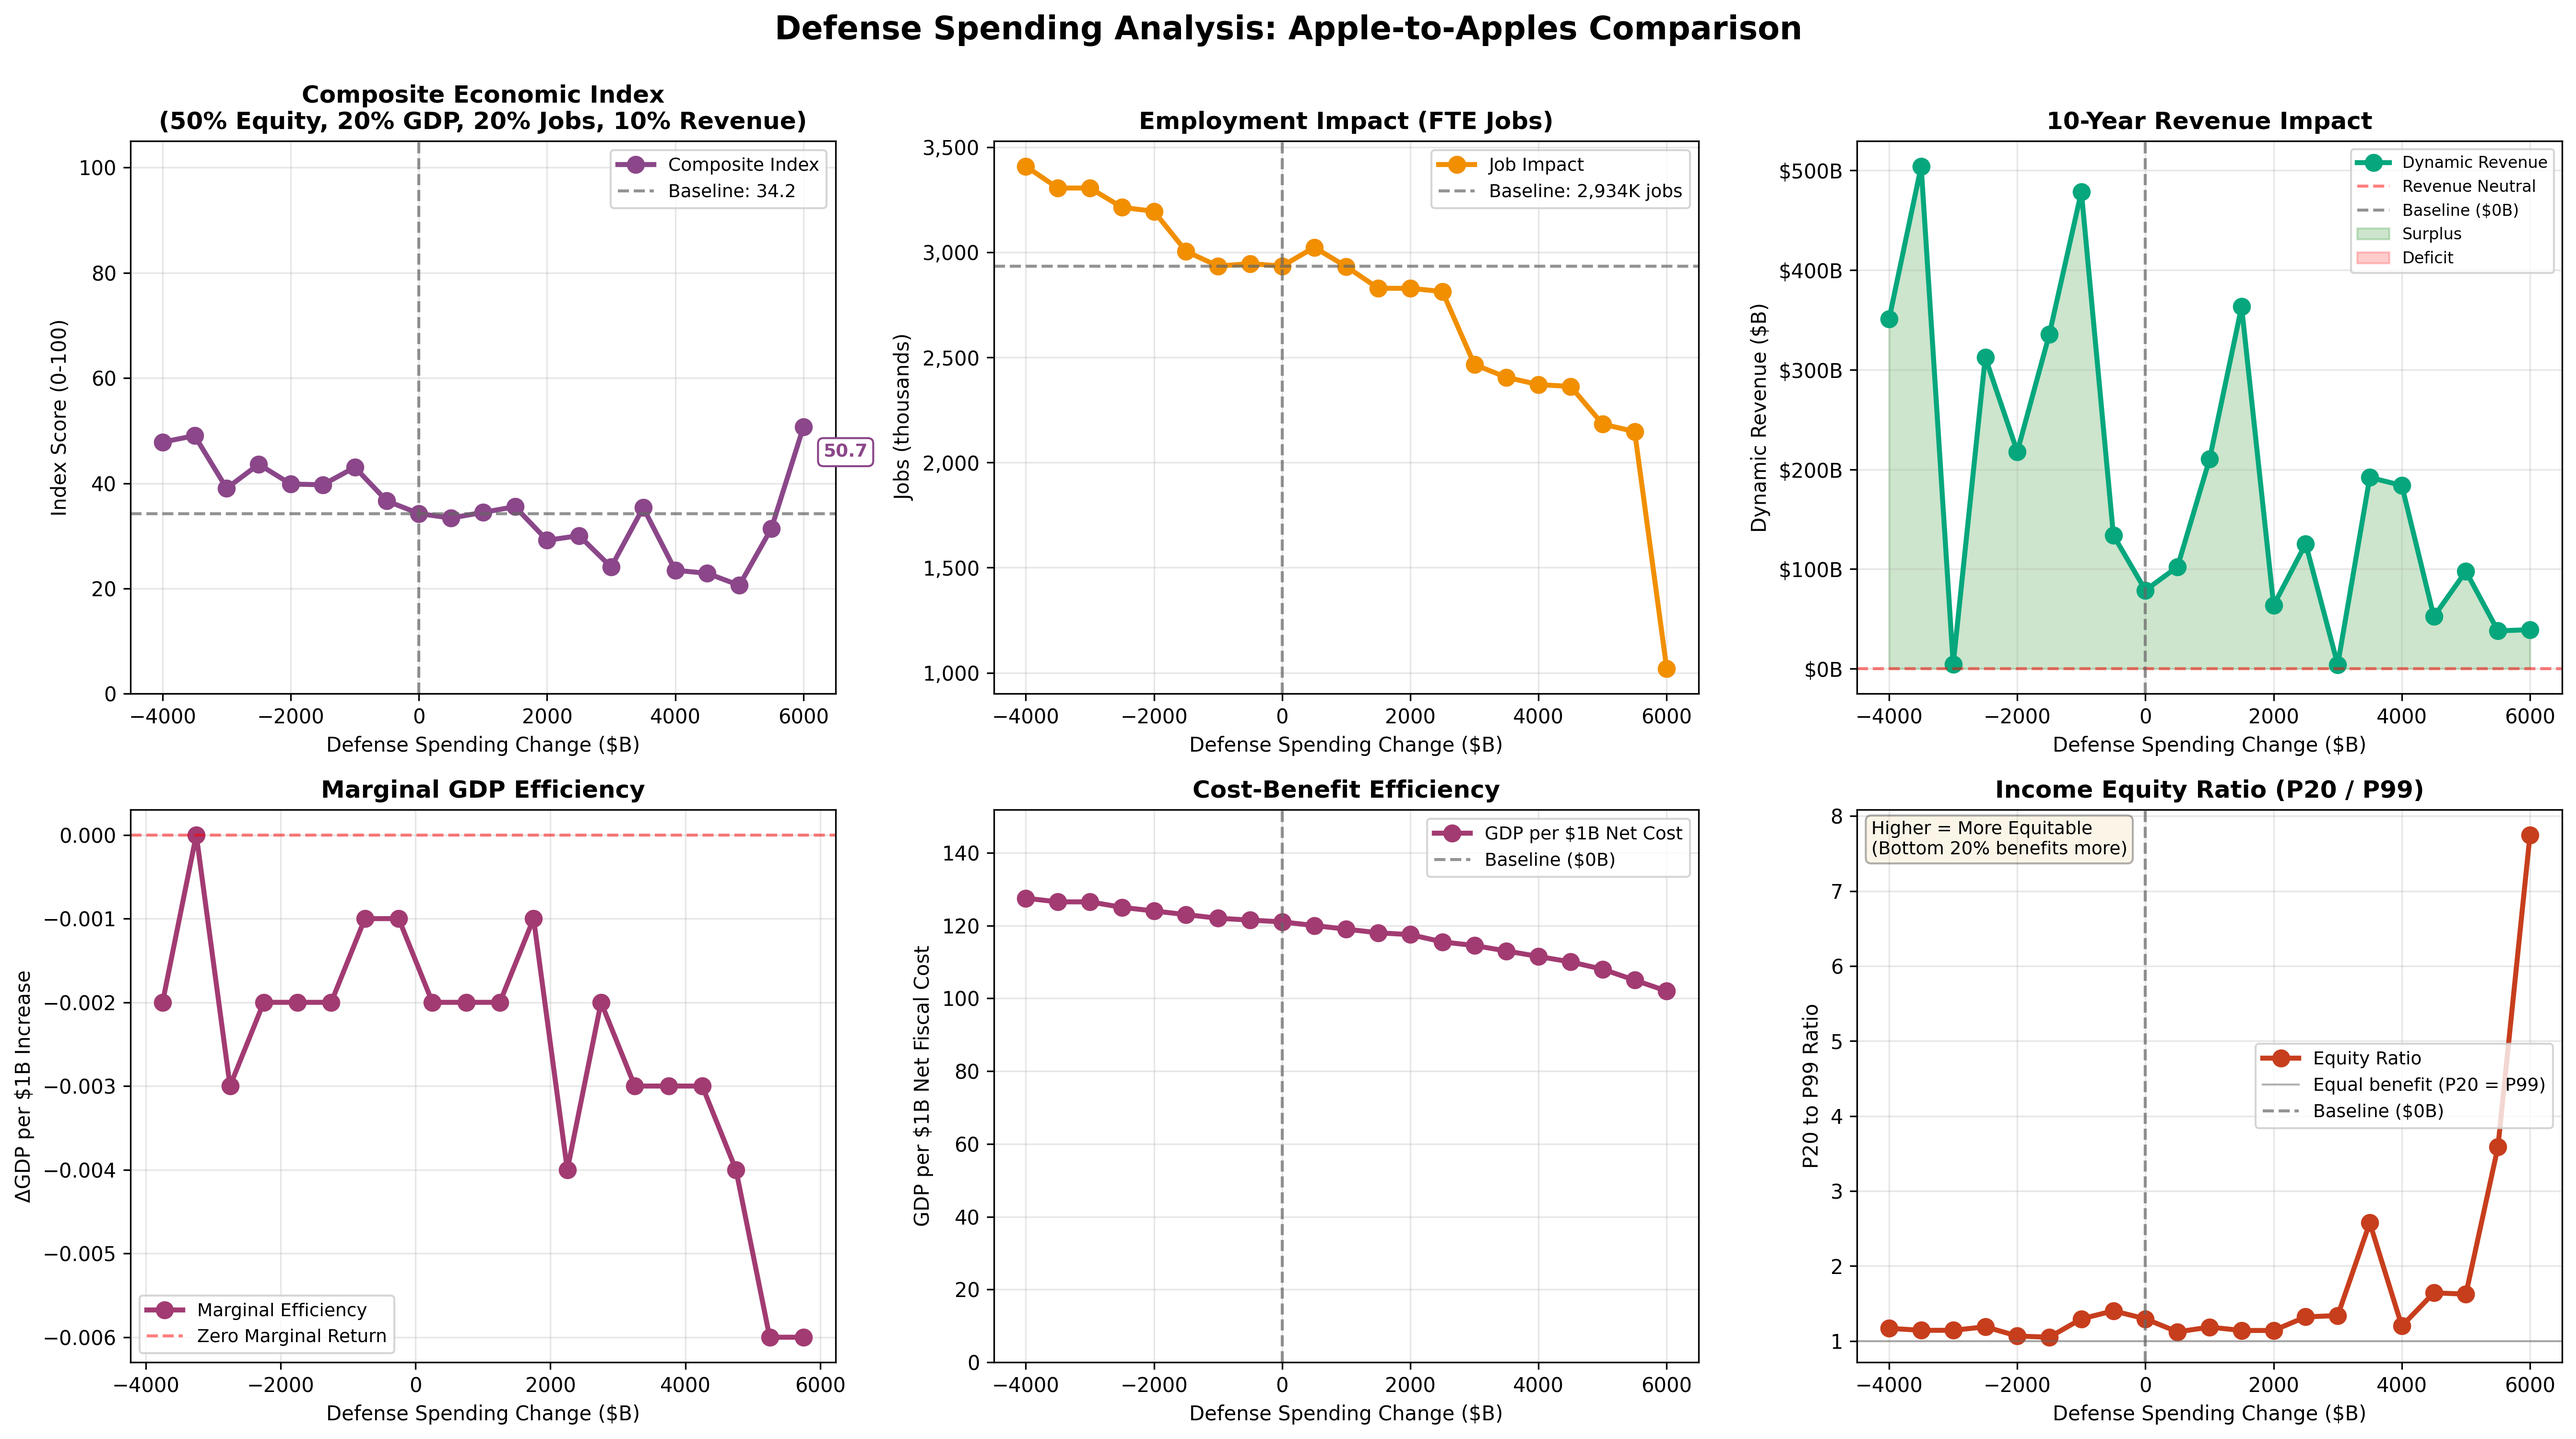
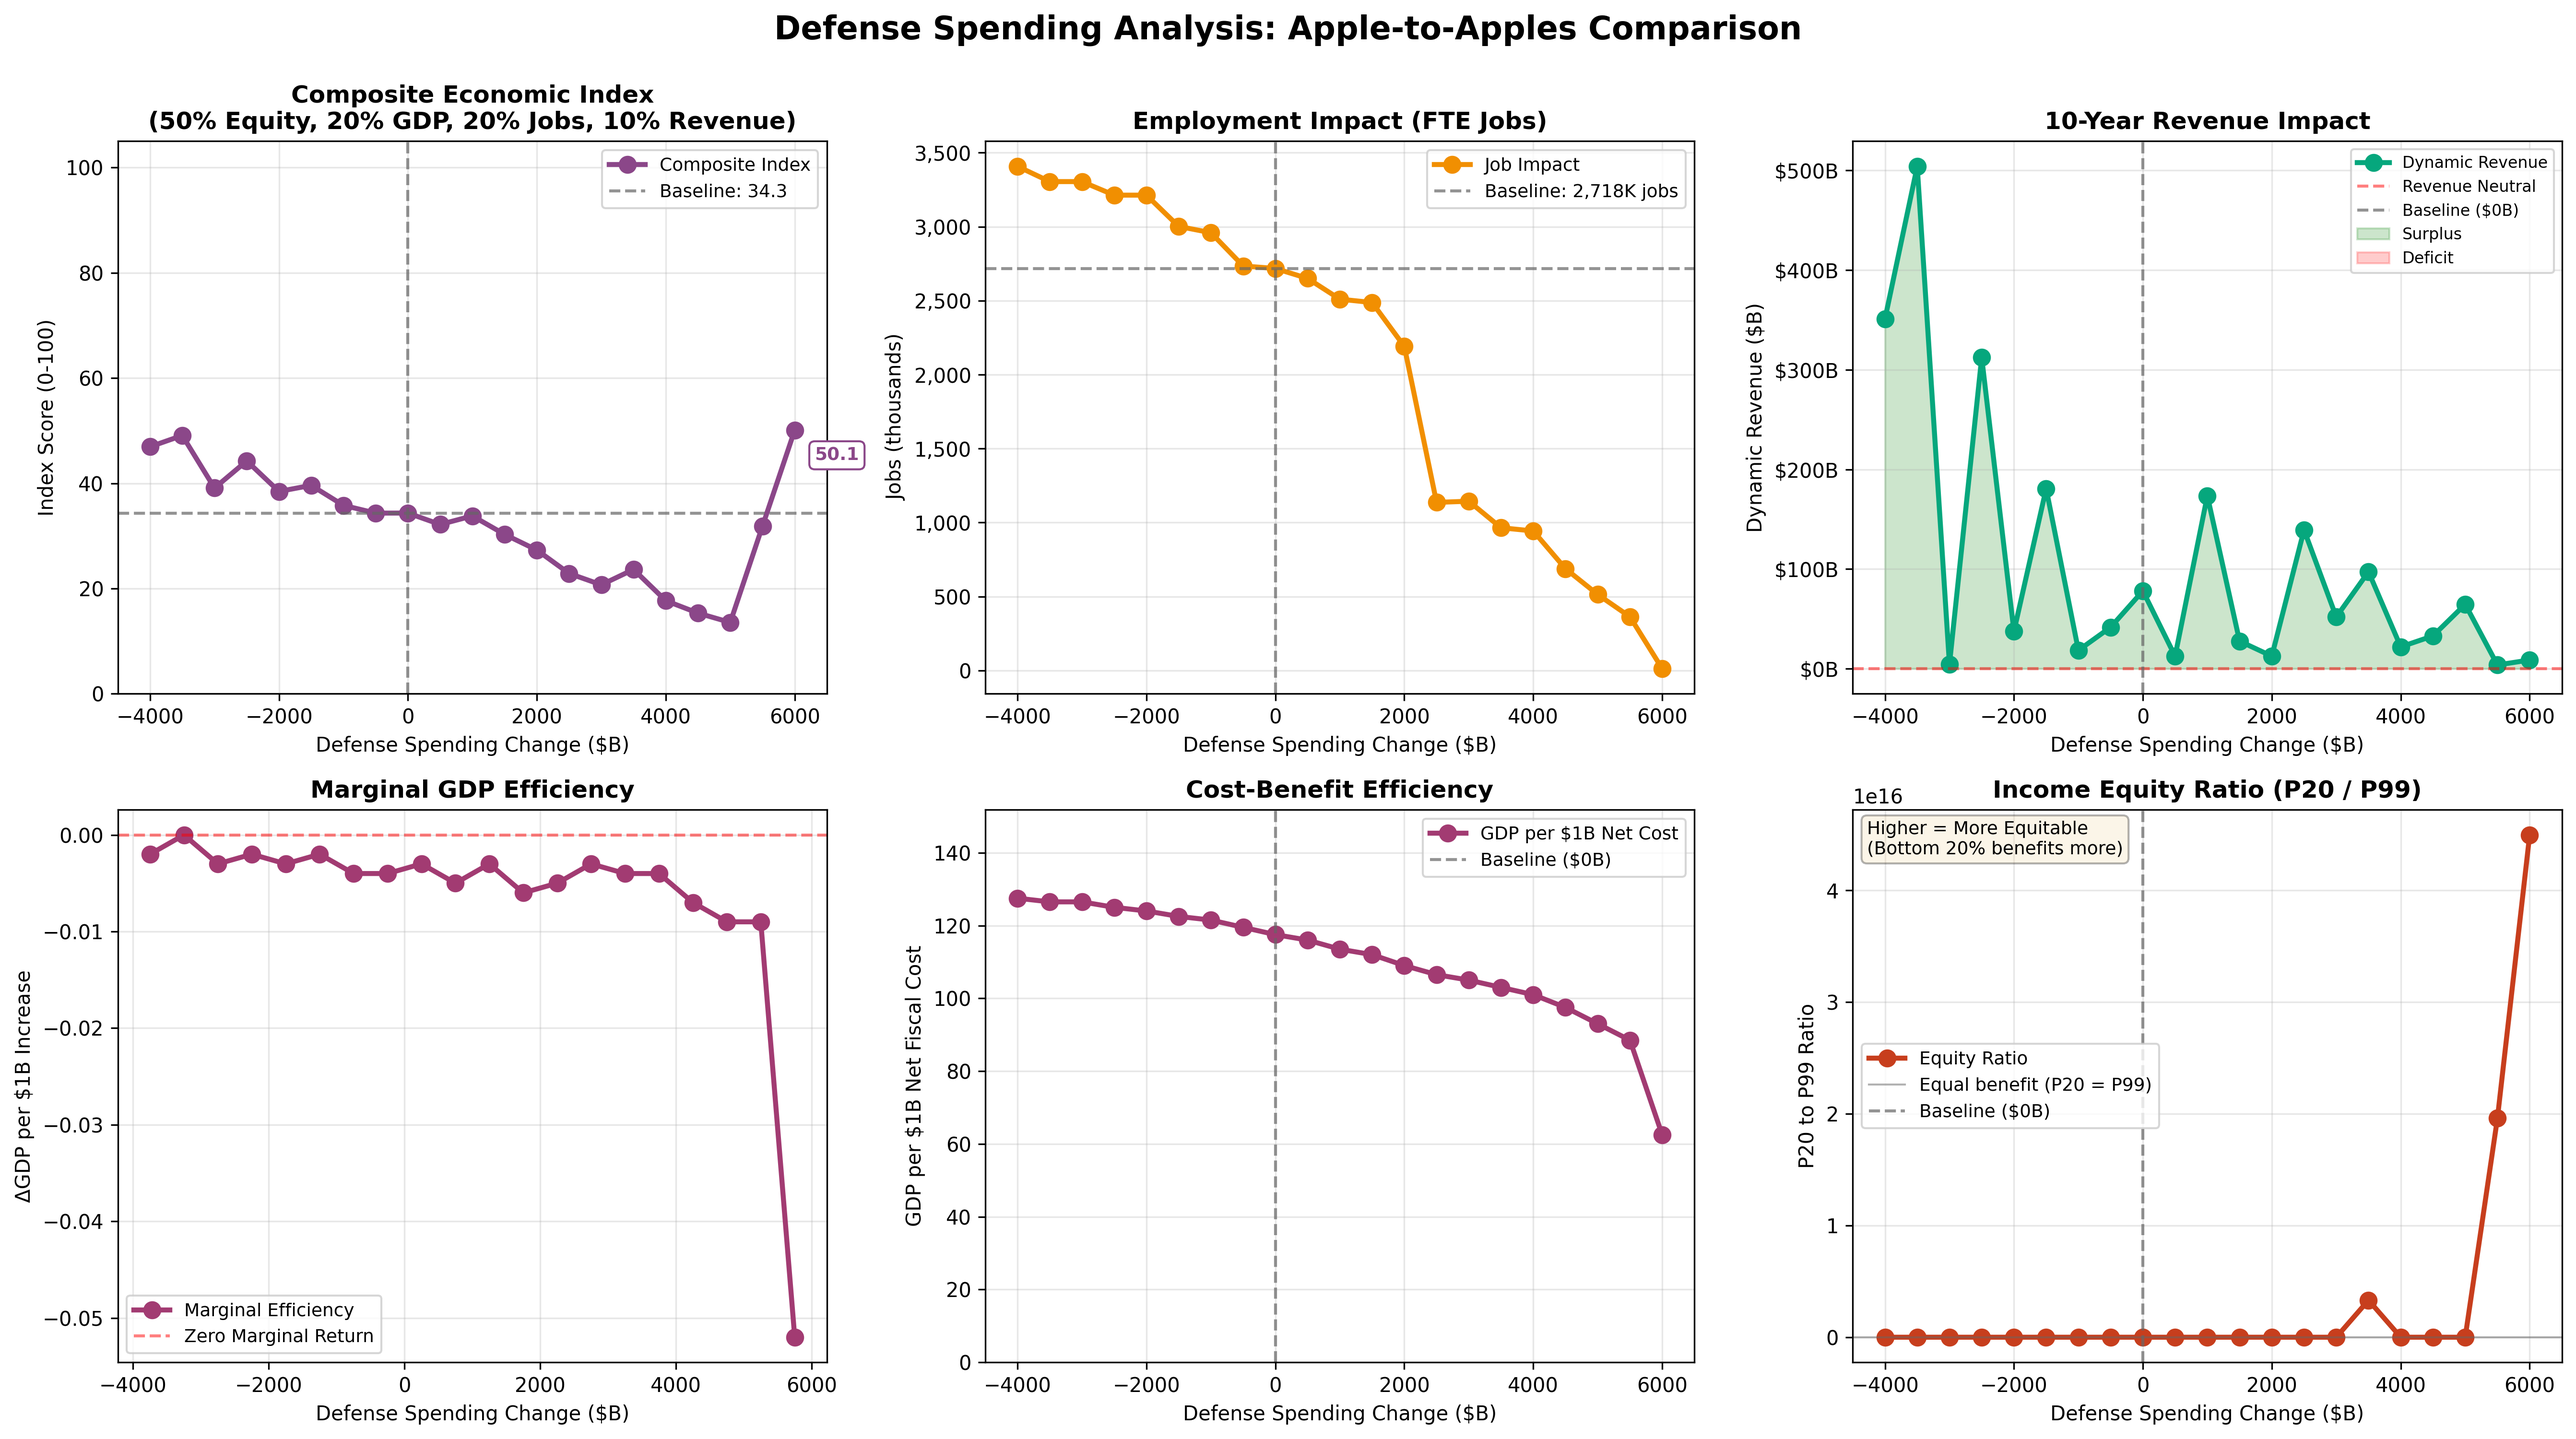
added constraint of no new taxes -- solution satified

diff --git a/max_gdp_defense.py b/max_gdp_defense.py
@@ -6,19 +6,25 @@ This script maximizes GDP growth subject to:
 - Economic constraints: Non-negative capital stock, jobs, and wage rate
 - Equity constraints: Progressive distribution favoring lower/middle income groups
 - Income constraints: All income groups must have non-negative after-tax income effects
+- Policy exclusions: Certain policies are prohibited from selection
 - Policy mutual exclusivity: Competing policies cannot both be selected
 - National security constraints: Minimum spending requirement, mutual exclusivity
 
 Key Features:
 1. Equity Constraints: Ensures lower and middle income groups (P20, P40-60) benefit
    at least as much as upper income groups (P80-100, P99)
-2. Policy Mutual Exclusivity: Ensures incompatible policies are not selected together
+2. Policy Exclusions: Forces specific policies to never be selected (no new taxes)
+   - Policy 37: Corporate Surtax of 5%
+   - Policy 43: Enact a 5% VAT
+   - Policy 49: Reinstate the Cadillac Tax
+   - Policy 68: Replace CIT with 5% VAT
+3. Policy Mutual Exclusivity: Ensures incompatible policies are not selected together
    - 15 policy groups (corporate tax, estate tax, individual tax structure, etc.)
    - Special constraints (e.g., VAT replacement excludes corporate surtax)
-3. National Security (NS) Constraints:
+4. National Security (NS) Constraints:
    - NS1-NS7 groups (A/B/C options): Only one option per group can be selected
    - Configurable minimum spending requirement on NS1-NS7 selections
-4. Two-stage optimization to find best GDP with tiebreaking on revenue
+5. Two-stage optimization to find best GDP with tiebreaking on revenue
 
 Usage:
     python max_gdp_defense.py                    # Default: Run full range (-4000 to 6000) + visualization
@@ -143,6 +149,7 @@ def optimize_policy_selection(
         - Economic: Non-negative capital stock, jobs, wage rate
         - Equity: Progressive distribution (P20, P40-60 >= P80-100, P99)
         - Income: All income groups must have non-negative after-tax income (everyone better off)
+        - Policy exclusions: Policies {37, 43, 49, 68} cannot be selected
         - Policy mutual exclusivity: At most one policy per competing group (15 groups)
         - Special policy constraints: E.g., VAT replacement excludes corporate surtax
         - NS mutual exclusivity: At most one policy per NS group
@@ -175,7 +182,14 @@ def optimize_policy_selection(
         14. Depreciation/Expensing: {7, 40, 65}
         15. Value Added Tax (VAT): {43, 68}
         
+        Excluded Policies (forced to 0):
+        - 37: Corporate Surtax of 5%
+        - 43: Enact a 5% VAT
+        - 49: Reinstate the Cadillac Tax
+        - 68: Replace CIT with 5% VAT
+        
         Special: If 68 (Replace CIT with VAT), then not 37 (Corporate Surtax)
+        Note: Both 68 and 37 are already in excluded list, so this constraint is redundant
         
     Args:
         df: DataFrame containing policy options and their impacts
@@ -233,6 +247,15 @@ def optimize_policy_selection(
     
     # Get policy group indices for mutual exclusivity constraints
     policy_groups = define_policy_groups(df)
+    
+    # Excluded policies: Force these policies to never be selected
+    excluded_policies = ['37', '43', '49', '68']
+    excluded_indices = get_policy_indices_by_codes(df, excluded_policies)
+    for idx in excluded_indices:
+        stage1_model.addConstr(x[idx] == 0, name=f"Exclude_policy_{idx}")
+    
+    if verbose and len(excluded_indices) > 0:
+        print(f"  Excluded policies: {len(excluded_indices)} policies forced to 0")
     
     # Fiscal constraint: Total dynamic revenue must be non-negative
     # Ensures the policy package doesn't increase the deficit
@@ -348,6 +371,10 @@ def optimize_policy_selection(
         quicksum(x2[i] * revenue[i] for i in indices),
         GRB.MAXIMIZE
     )
+    
+    # Excluded policies (same as Stage 1)
+    for idx in excluded_indices:
+        stage2_model.addConstr(x2[idx] == 0, name=f"Exclude_policy_{idx}")
     
     # Constraints (same as Stage 1, but with x2 variables)
     stage2_model.addConstr(

diff --git a/verify_excluded.py b/verify_excluded.py
@@ -1,0 +1,24 @@
+"""Verify that excluded policies are not in the output."""
+
+import pandas as pd
+
+df = pd.read_csv('outputs/defense/max_gdp_defense5000.csv')
+
+excluded_codes = ['37', '43', '49', '68']
+
+print('Verifying Excluded Policies (5000B Spending):\n')
+
+all_excluded = True
+for code in excluded_codes:
+    found = df[df['Option'].str.match(f'^{code}:', na=False)]
+    if len(found) > 0:
+        print(f'  Policy {code}: FOUND (ERROR!)')
+        print(f'    {found.iloc[0]["Option"]}')
+        all_excluded = False
+    else:
+        print(f'  Policy {code}: Excluded (correct)')
+
+if all_excluded:
+    print('\n✅ All 4 policies successfully excluded from selection!')
+else:
+    print('\n❌ Some policies were not excluded!')
